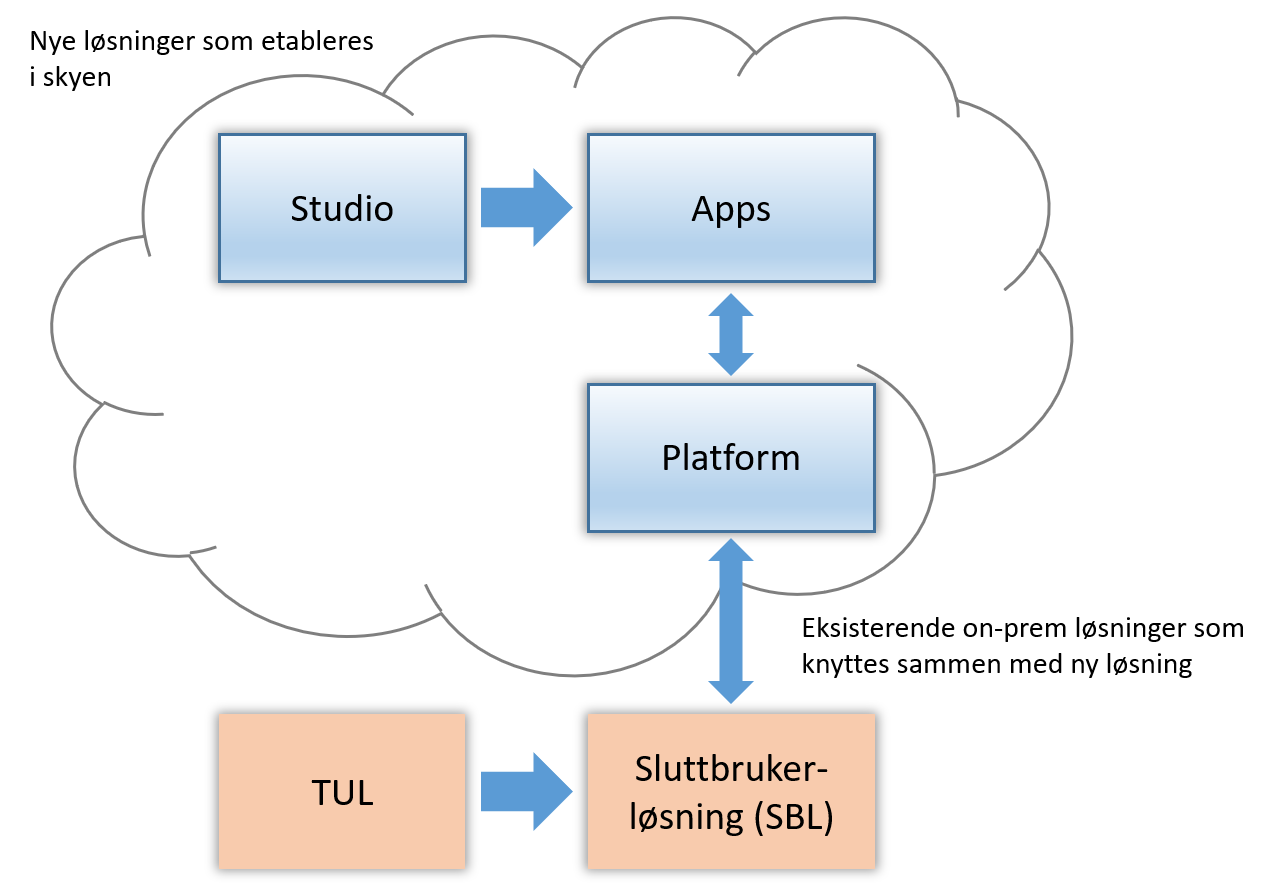
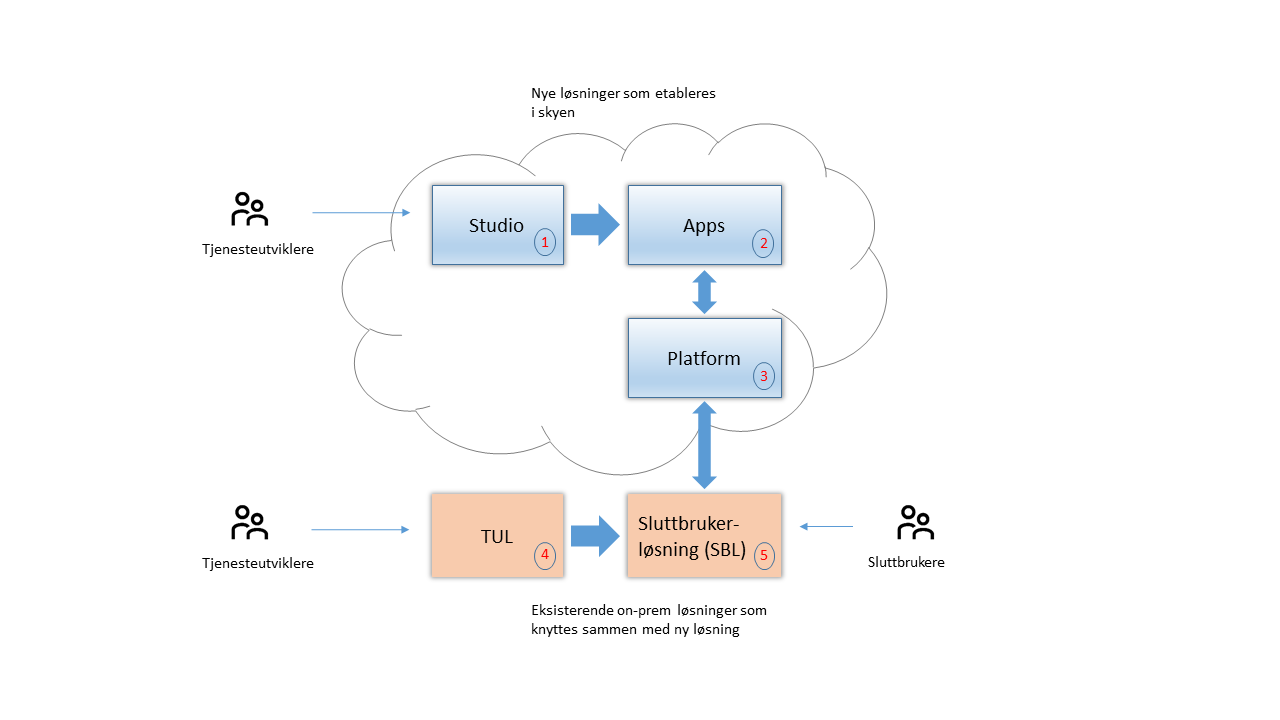
New picture in Roadmap

diff --git a/content/roadmap/2019/_index.md b/content/roadmap/2019/_index.md
@@ -111,7 +111,7 @@ Alle de nye løsningene etableres i public cloud.
 Funksjonalitet for å utvikle en applikasjon og teste den i et testmiljø vil komme i Q2,
 og mulighet for å produksjonssette applikasjoner vil komme i Q3.
 
-![Altinn Studio](studio-arch.png?width=600)
+![Altinn Studio](studio-arch.png?width=800)
 
 1) Tjenesteutvikler utvikler tjenester i Altinnstudio. Tjenesteutvikler migrerer tjenestene selv til Altinn Apps 
 2) I Altinn Apps vil sluttbrukere få tilgang til og kunne arbeide med tjenester utviklet i Altinnstudio
